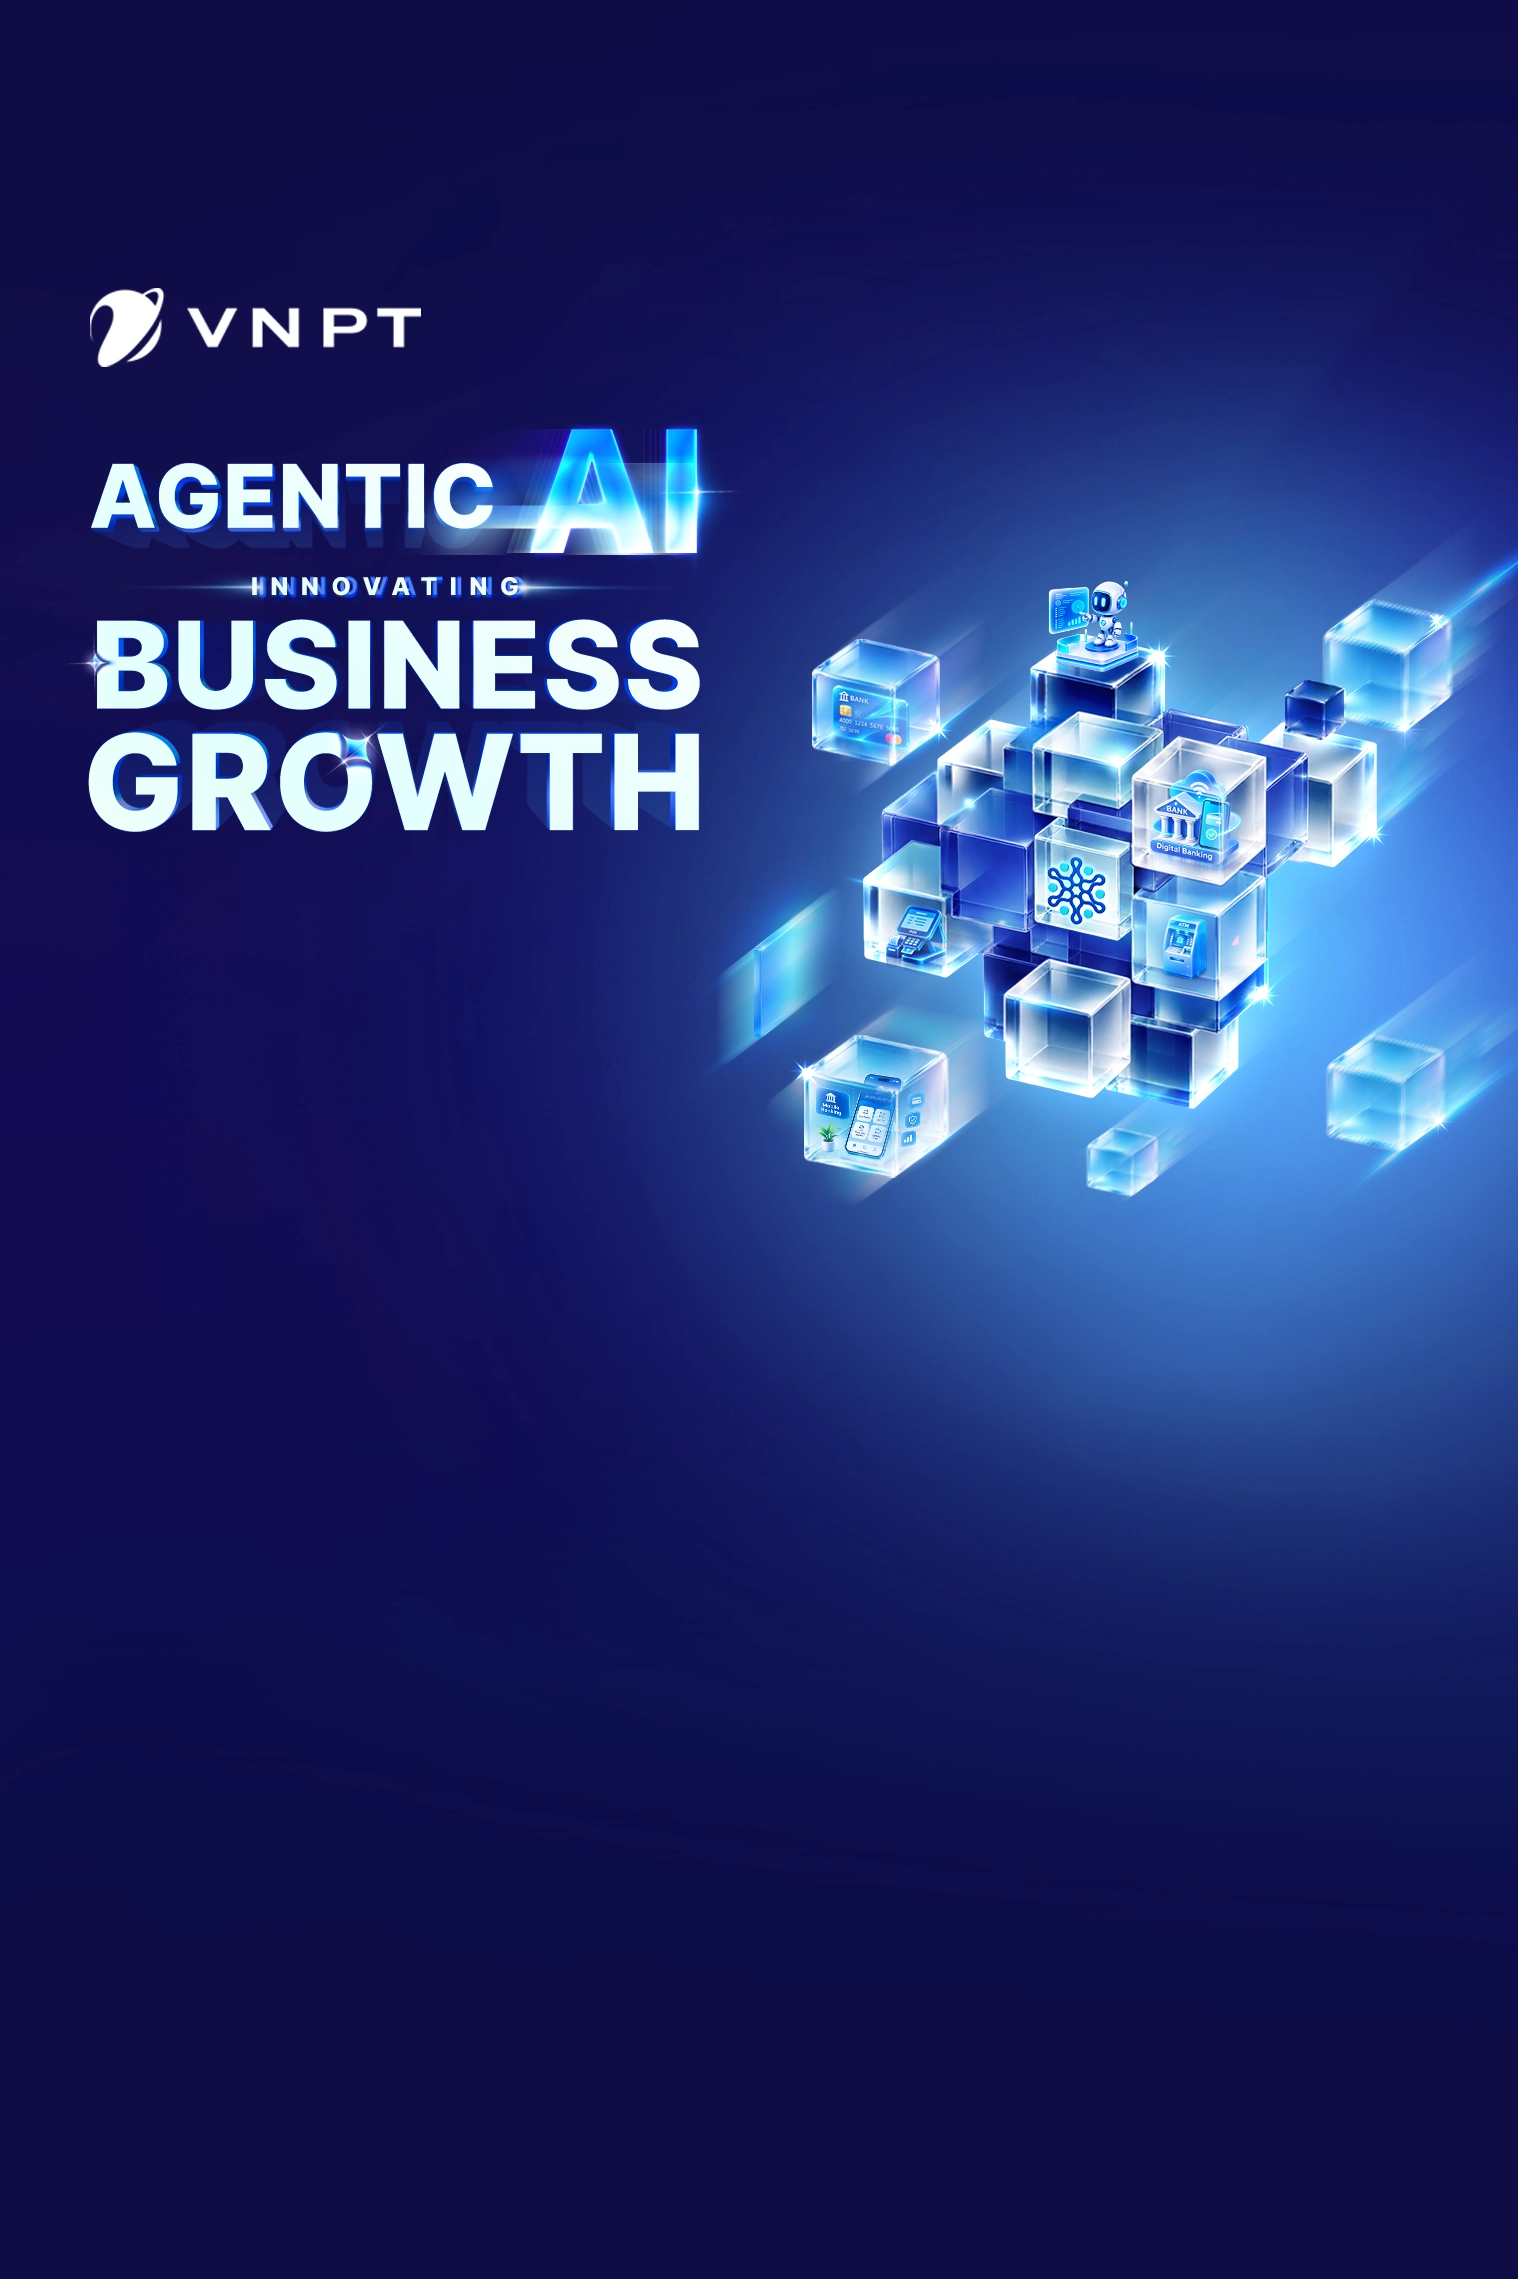
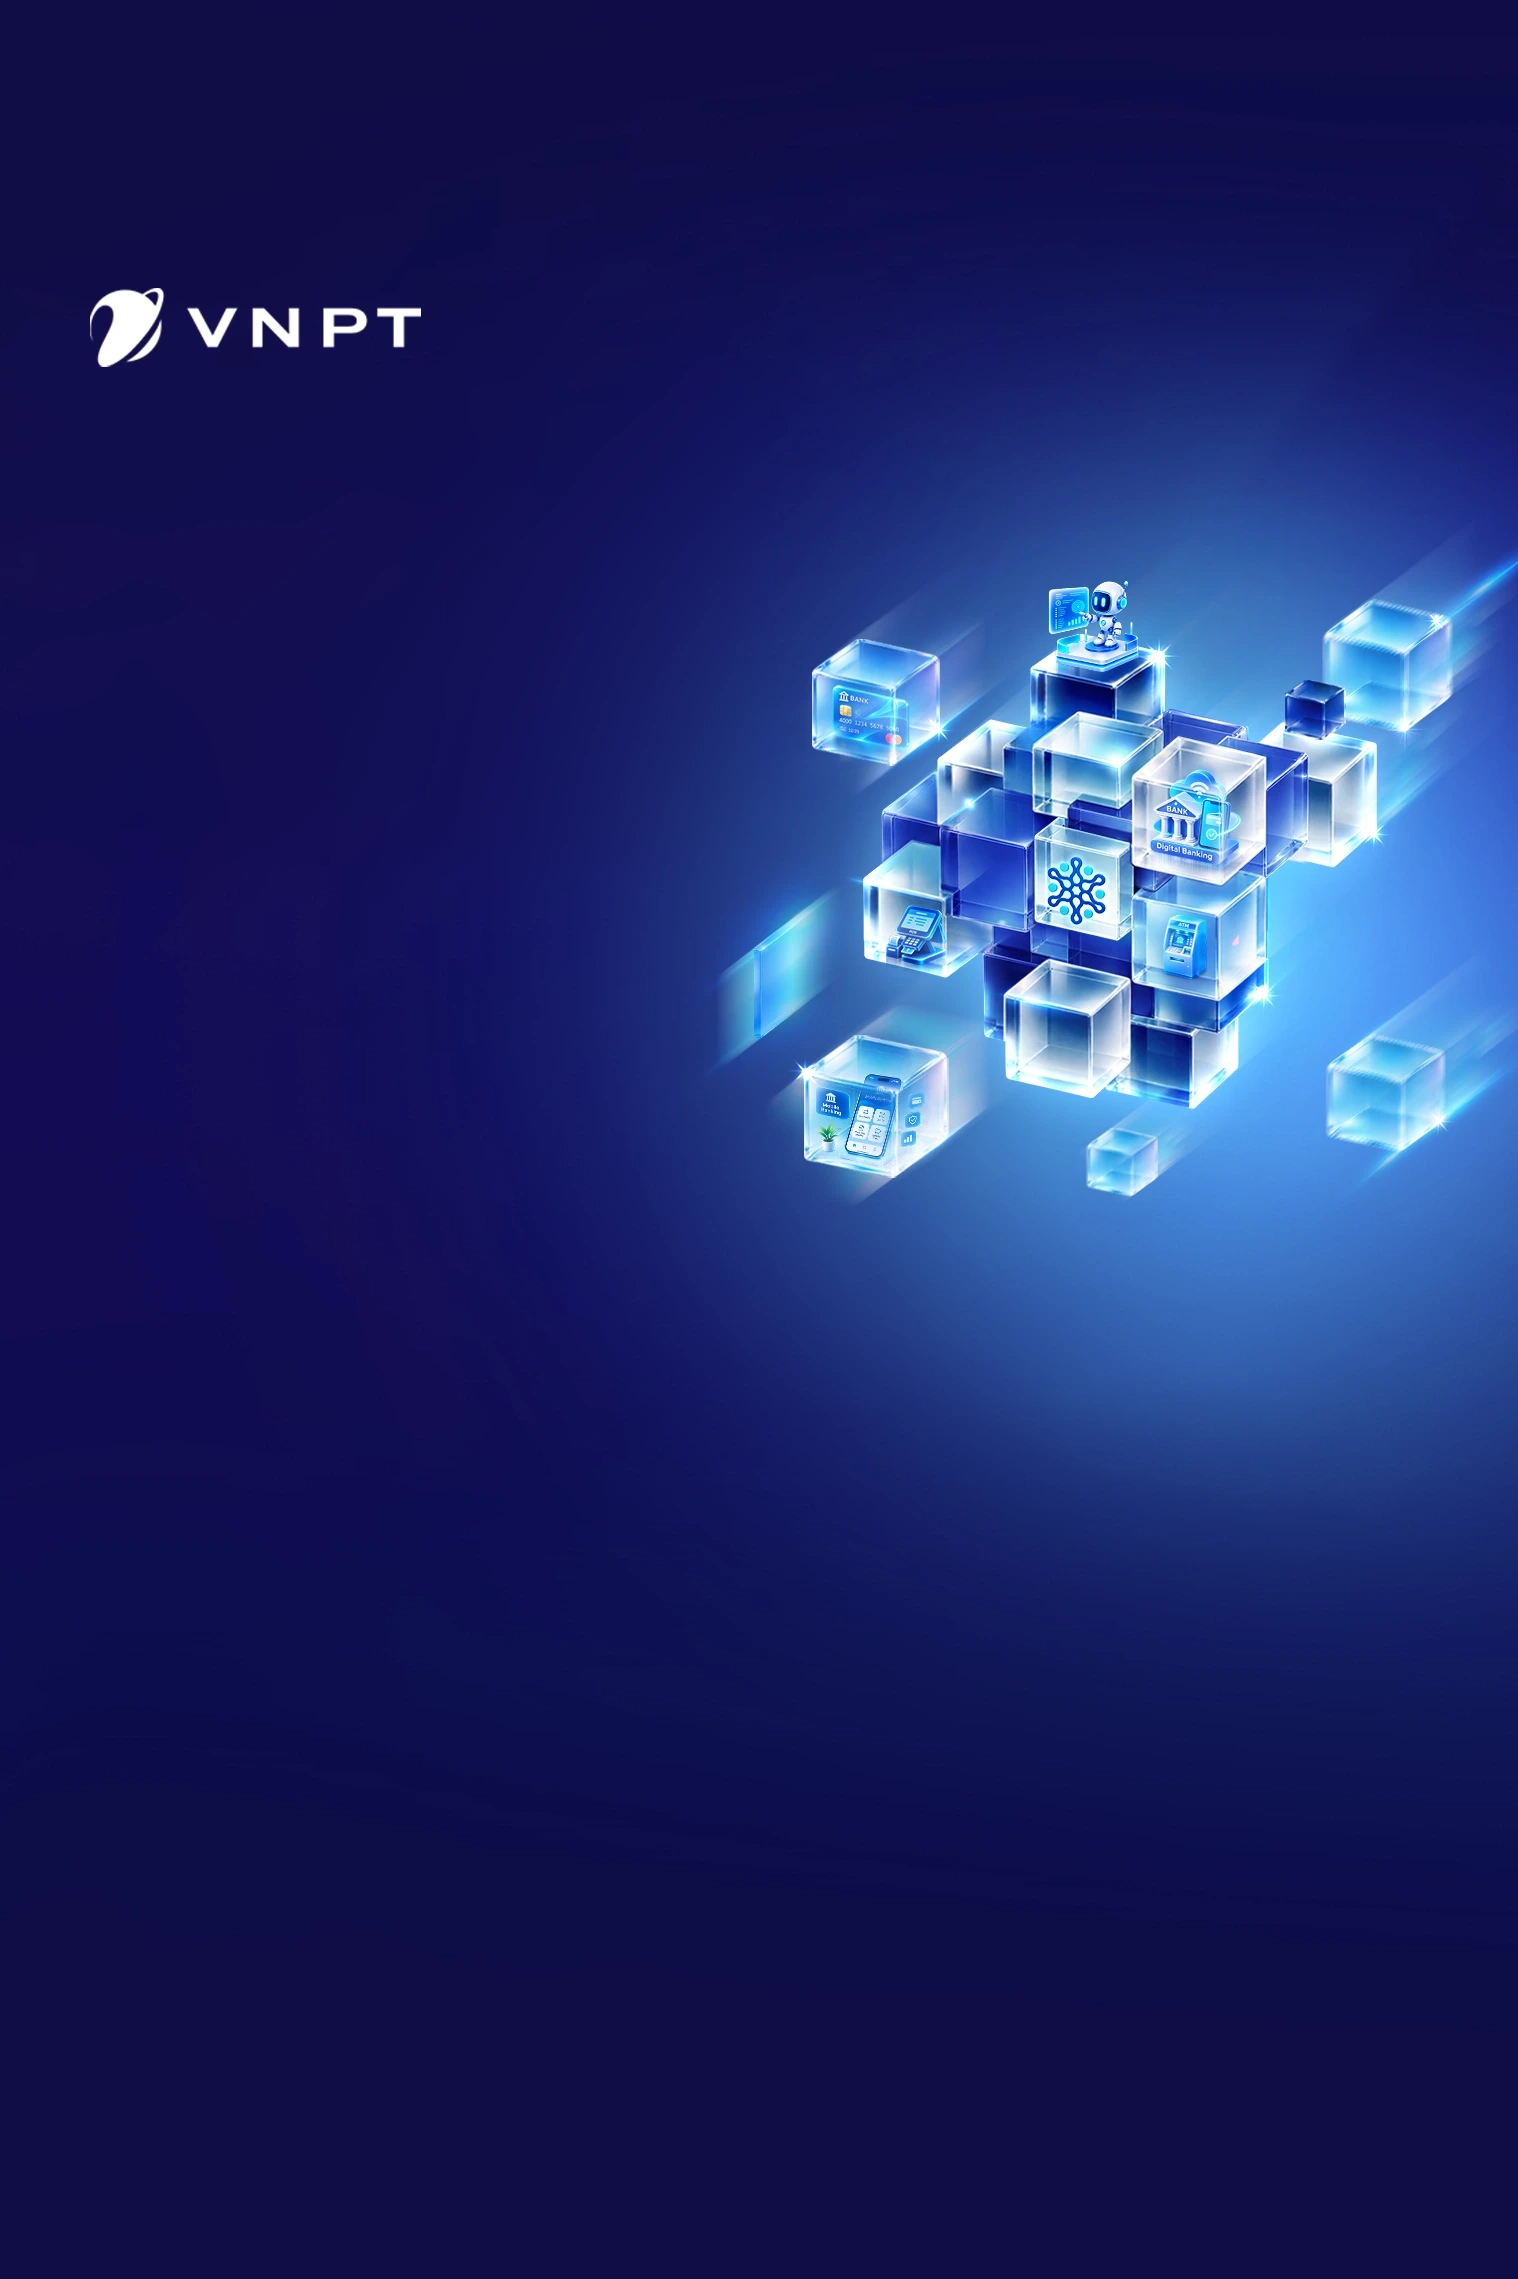
day lai code

Changed region(s): [[0.0619, 0.1869, 0.4954, 0.3738]]

diff --git a/index.html b/index.html
@@ -92,9 +92,9 @@
 
     <section class="make carousel-slide" id="pass" aria-label="Nhập thông tin tạo thẻ mời">
       <div class="make-form-content">
-        <h2>Tạo thẻ mời của quý vị</h2>
-        <p class="sub">Nhập thông tin để VPNT SmartBot phát hành thư mời tham dự hội thảo. Quý khách có thể tải thư mời
-          và lưu lịch hẹn trên Google Calendar</p>
+        <h2>Tạo thư mời của Quý khách</h2>
+        <p class="sub">Nhập thông tin để VPNT SmartBot phát hành thư mời tham dự hội thảo.<br>Quý khách có thể tải thư
+          mời và lưu lịch hẹn trên Google Calendar</p>
         <form id="f">
           <input id="name" name="fullName" placeholder="Họ và tên" autocomplete="name" aria-label="Họ và tên"
             minlength="2" maxlength="100" required />
